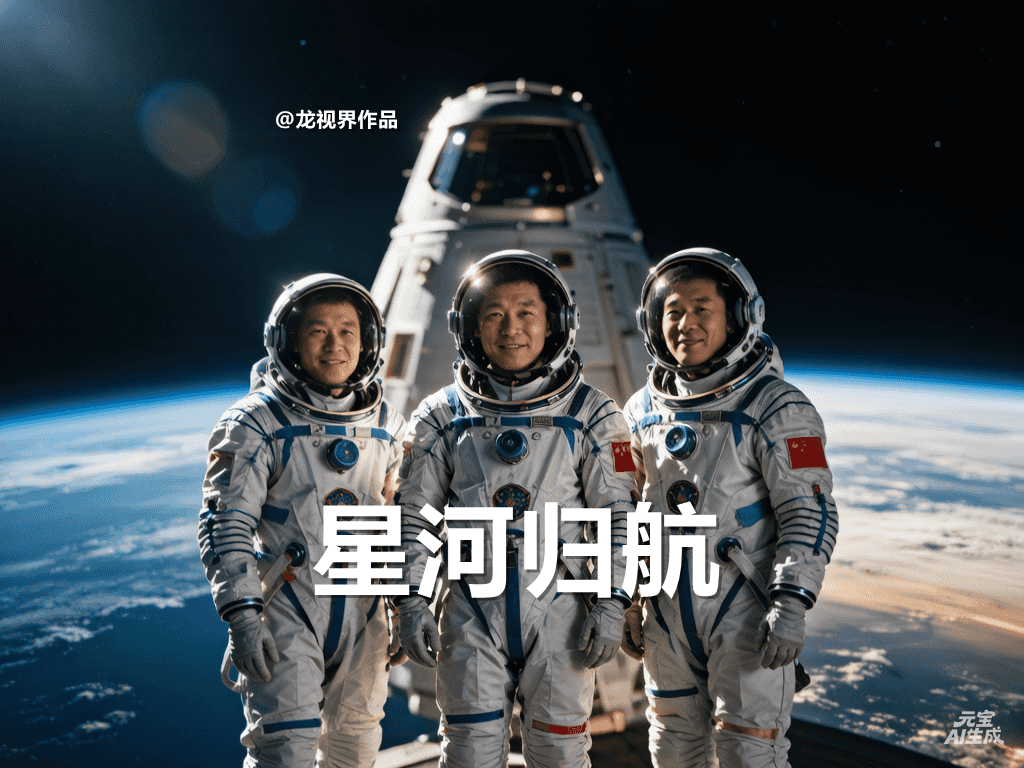
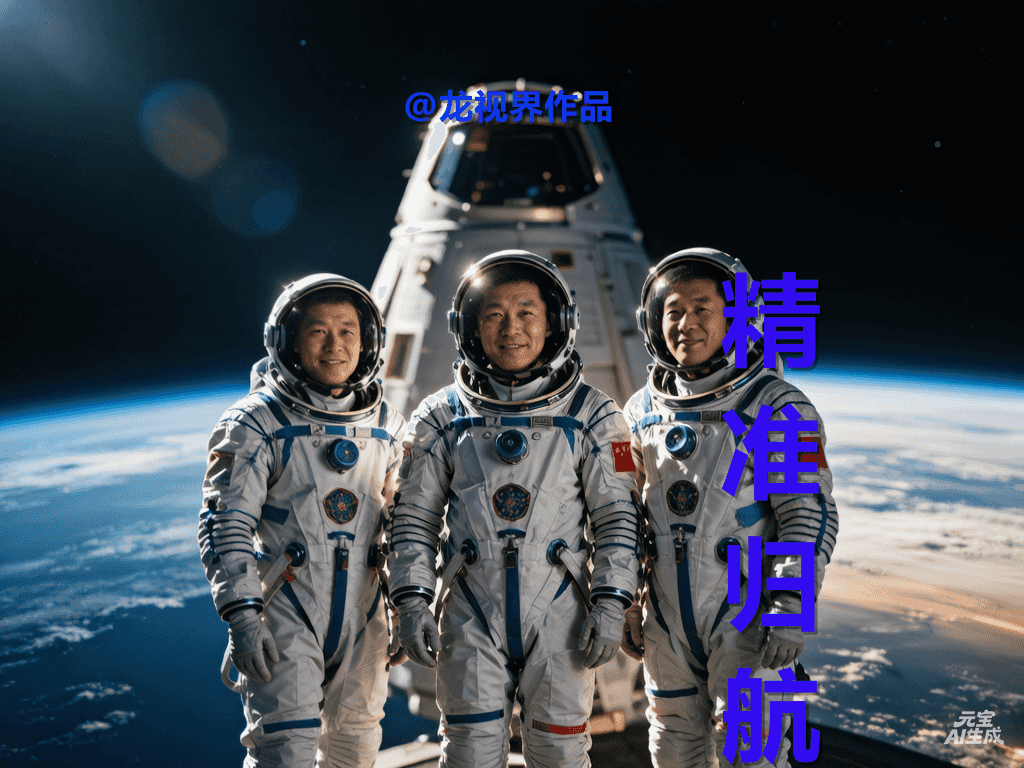
12

diff --git a/playfour1.html b/playfour1.html
@@ -1,0 +1,374 @@
+<!DOCTYPE html>
+<html lang="zh-CN">
+<head>
+<!-- Google tag (gtag.js) -->
+<script async src="https://www.googletagmanager.com/gtag/js?id=G-NFV4TWZ8NW"></script>
+<script>
+  window.dataLayer = window.dataLayer || [];
+  function gtag(){dataLayer.push(arguments);}
+  gtag('js', new Date());
+
+  gtag('config', 'G-NFV4TWZ8NW');
+</script>  
+  <meta charset="UTF-8">
+  <meta name="viewport" content="width=device-width, initial-scale=1.0">
+  <title>交互式歌词播放器</title>
+  <style>
+    /* 视觉设计系统 */
+    :root {
+      --primary: #123bf0;
+      --secondary: #3f37c9;
+      --text: #2b2d42;
+      --bg: #34393f2d;
+    }
+        body {
+            background: url('img/20260531143843_10569_2.png') no-repeat center center fixed;
+            background-size: cover;
+            margin: 0;
+            padding: 0;
+            height: 100vh;
+        }
+        /* 透明播放器样式 */
+      .player {
+            background: transparent; / 完全透明 /
+            backdrop-filter: blur(10px); / 可选：毛玻璃效果 /
+            border-radius: 15px;
+            padding: 20px;
+            width: 320px;
+            margin: 50px auto;
+            box-shadow: 0 4px 15px rgba(0, 0, 0, 0.1);
+            border: 1px solid rgba(255, 255, 255, 0.2);
+        }
+        .progress-bar {
+            background: rgba(255, 255, 255, 0.3);
+            height: 4px;
+            border-radius: 2px;
+            margin: 15px 0;
+        }
+        .progress {
+            background: #1DB954; / Spotify绿 /
+            height: 100%;
+            width: 31%; / 0:51/3:27 ≈ 31% /
+            border-radius: 2px;
+        }
+        .controls {
+            display: flex;
+            justify-content: center;
+        }
+        .play-btn {
+            background: #1DB954;
+            width: 56px;
+            height: 56px;
+            border-radius: 50%;
+            display: flex;
+            align-items: center;
+            justify-content: center;
+            cursor: pointer;
+        }
+        .time {
+            color: white;
+            font-family: Arial;
+            font-size: 12px;
+            display: flex;
+            justify-content: space-between;
+        }
+    .lyrics-viewport {
+      height: calc(100vh - 180px);
+      overflow-y: auto;
+      scroll-behavior: smooth;
+      padding-bottom: 180px;
+    }
+    .lyric-line {
+      padding: 16px 0;
+      text-align: center;
+      font-size: 18px;
+      color: var(--text);
+      opacity: 0.6;
+      transition: all 0.3s ease;
+      color: white;
+      text-shadow: 1px 1px 2px rgba(0, 0, 0, 0.5); / 可选：添加阴影增强可读性 /
+    }
+    .lyric-line.active {
+      color: var(--primary);
+      opacity: 1;
+      font-weight: 600;
+      transform: scale(1.08);
+    }
+    .control-panel {
+      position: fixed;
+      bottom: 20px;
+      left: 50%;
+      transform: translateX(-50%);
+      width: min(90%, 480px);
+      background: rgba(50, 50, 50, 0.3);
+      border-radius: 12px;
+      padding: 15px;
+      box-shadow: 0 -2px 15px rgba(0,0,0,0.1);
+    }
+    /* 新增按钮样式 */
+#backBtn {
+  position: absolute;
+  left: 15px;
+  top: 50%;
+  transform: translateY(-50%);
+  background: rgba(0,40,80,0.7);
+  border: none;
+  width: 36px;
+  height: 36px;
+  border-radius: 50%;
+  cursor: pointer;
+  transition: all 0.3s;
+}
+
+#backBtn:hover {
+  background: rgba(0,80,160,0.9);
+}
+
+.safe-drive-btn svg {
+  vertical-align: middle;
+}
+    .progress-container {
+      height: 4px;
+      background: #eee;
+      border-radius: 2px;
+      margin-bottom: 10px;
+      cursor: pointer;
+    }
+    .progress {
+      height: 100%;
+      background: linear-gradient(90deg, var(--primary), var(--secondary));
+      width: 0%;
+      border-radius: 2px;
+    }
+    .time-display {
+      display: flex;
+      justify-content: space-between;
+      font-size: 12px;
+      color: #666;
+      margin-bottom: 15px;
+    }
+    #playButton {
+      display: block;
+      margin: 0 auto;
+      width: 56px;
+      height: 56px;
+      background: var(--primary);
+      color: white;
+      border: none;
+      border-radius: 50%;
+      font-size: 20px;
+      cursor: pointer;
+      transition: all 0.2s;
+    }
+    #playButton:hover {
+      transform: scale(1.1);
+      box-shadow: 0 4px 15px rgba(28, 67, 241, 0.678);
+    }
+    // 访问计数器样式
+    #counter {
+      padding: 5px 10px;
+      border-radius: 3px;
+    }
+    #counter::before {
+      content: "👀";
+      font-size: 16px;
+    }     
+  </style>
+</head>
+<body>
+  <div class="player-container">    
+<audio id="audio" src="https://static.musicmuse.ai/audio/cmptejajy000i8jon71vamioz/20260531/cmptemp88006gmq1f9e3su0e7/2VBx6mzR5pdnKcEQj3YAti.mp3"></audio>
+    <div class="lyrics-viewport" id="lyricsViewport">  
+<div class="lyric-line" data-time="0.8">[前奏音乐]</div>
+<div class="lyric-line" data-time="12.24">二零二六年五月二十九</div>
+<div class="lyric-line" data-time="15.29">写进了星河的页</div>
+<div class="lyric-line" data-time="18.04">神舟二十一号的身影</div>
+<div class="lyric-line" data-time="21.44">把半年风雪都背</div>
+<div class="lyric-line" data-time="24.61">张陆望向舷窗外</div>
+<div class="lyric-line" data-time="27.70">武飞稳住每一次回</div>
+<div class="lyric-line" data-time="30.83">张洪章把守住时光</div>
+<div class="lyric-line" data-time="33.52">让每个日夜都不退</div>
+<div class="lyric-line" data-time="36.92">两百一十天</div>
+<div class="lyric-line" data-time="39.85">穿过寂静的黑</div>
+<div class="lyric-line" data-time="42.87">从天外回望</div>
+<div class="lyric-line" data-time="45.36">心跳更像春雷</div>
+<div class="lyric-line" data-time="48.95">同乘出征的誓言</div>
+<div class="lyric-line" data-time="52.37">此刻终于兑现</div>
+<div class="lyric-line" data-time="55.90">换船归来的答案</div>
+<div class="lyric-line" data-time="58.28">落回祖国天边</div>
+<div class="lyric-line" data-time="61.44">换船归来，归来</div>
+<div class="lyric-line" data-time="65.32">把荣光带回人间</div>
+<div class="lyric-line" data-time="67.66">换船归来，归来</div>
+<div class="lyric-line" data-time="71.31">把中国写上天边</div>
+<div class="lyric-line" data-time="73.93">同乘出征，换船返回</div>
+<div class="lyric-line" data-time="77.07">这一步多么不凡</div>
+<div class="lyric-line" data-time="80.26">换船归来，归来</div>
+<div class="lyric-line" data-time="83.78">热泪都为你们满</div>
+<div class="lyric-line" data-time="91.72">不是一句简单告别</div>
+<div class="lyric-line" data-time="94.62">是体系稳稳托举</div>
+<div class="lyric-line" data-time="97.53">每一次对接与切换</div>
+<div class="lyric-line" data-time="100.88">都闪着精准的呼吸</div>
+<div class="lyric-line" data-time="103.74">从发射到返航这一程</div>
+<div class="lyric-line" data-time="108.12">每道关口都过硬</div>
+<div class="lyric-line" data-time="110.30">把成熟和完备四个字</div>
+<div class="lyric-line" data-time="113.43">做成了真实的证明</div>
+<div class="lyric-line" data-time="116.40">看见那片蔚蓝时</div>
+<div class="lyric-line" data-time="119.36">谁都忍不住想念</div>
+<div class="lyric-line" data-time="122.82">可你们把漫长孤独</div>
+<div class="lyric-line" data-time="125.52">站成了新的标杆</div>
+<div class="lyric-line" data-time="128.72">超长周期的任务</div>
+<div class="lyric-line" data-time="131.86">在这一刻收官</div>
+<div class="lyric-line" data-time="135.27">把最难的路走通</div>
+<div class="lyric-line" data-time="137.42">把最亮的旗扬起岸</div>
+<div class="lyric-line" data-time="140.92">换船归来，归来</div>
+<div class="lyric-line" data-time="144.59">把荣光带回人间</div>
+<div class="lyric-line" data-time="147.17">换船归来，归来</div>
+<div class="lyric-line" data-time="150.86">把中国写上天边</div>
+<div class="lyric-line" data-time="153.41">同乘出征，换船返回</div>
+<div class="lyric-line" data-time="156.58">这一步多么不凡</div>
+<div class="lyric-line" data-time="159.69">换船归来，归来</div>
+<div class="lyric-line" data-time="163.31">热泪都为你们满</div>
+<div class="lyric-line" data-time="166.72">我看见你们穿过静默</div>
+<div class="lyric-line" data-time="168.09">把答案带回家</div>
+<div class="lyric-line" data-time="171.83">我听见每一颗心脏</div>
+<div class="lyric-line" data-time="174.32">跟着你们回答</div>
+<div class="lyric-line" data-time="177.30">从此以后再抬头看</div>
+<div class="lyric-line" data-time="180.42">不只是远方</div>
+<div class="lyric-line" data-time="183.56">还有我们亲手抵达的</div>
+<div class="lyric-line" data-time="186.06">更辽阔的地方</div>
+<div class="lyric-line" data-time="189.25">换船归来，归来</div>
+<div class="lyric-line" data-time="192.84">把荣光带回人间</div>
+<div class="lyric-line" data-time="195.59">换船归来，归来</div>
+<div class="lyric-line" data-time="199.16">把中国写上天边</div>
+<div class="lyric-line" data-time="201.75">同乘出征，换船返回</div>
+<div class="lyric-line" data-time="204.81">这一步多么不凡</div>
+<div class="lyric-line" data-time="208.14">换船归来，归来</div>
+<div class="lyric-line" data-time="211.60">热泪都为你们满</div>
+<div class="lyric-line" data-time="214.54">张陆，武飞，张洪章</div>
+<div class="lyric-line" data-time="217.66">名字刻进这一晚</div>
+<div class="lyric-line" data-time="220.56">星河作证，祖国作证</div>
+<div class="lyric-line" data-time="224.19">你们平安回家乡</div>
+      </div>      
+    </div>
+    <div class="control-panel"><div id="counter">0</div>
+  <button id="backBtn" class="safe-drive-btn">
+    <svg width="20" height="20" viewBox="0 0 24 24" fill="white">
+      <path d="M20 11H7.83l5.59-5.59L12 4l-8 8 8 8 1.41-1.41L7.83 13H20v-2z"/>
+    </svg>
+  </button>
+      <div class="progress-container" id="progressBar">
+        <div class="progress" id="progress"></div>
+      </div>
+      <div class="time-display">
+        <span id="currentTime">0:00</span>
+        <span id="duration">0:00</span>
+      </div>
+      <button id="playButton">▶</button>
+    </div>
+  </div>
+  <script>
+    // 优化后的JavaScript代码
+    const audio = document.getElementById('audio');
+    const lyricsViewport = document.getElementById('lyricsViewport');
+    const lyricLines = document.querySelectorAll('.lyric-line');
+    const progress = document.getElementById('progress');
+    const progressBar = document.getElementById('progressBar');
+    const playButton = document.getElementById('playButton');
+    const currentTimeEl = document.getElementById('currentTime');
+    const durationEl = document.getElementById('duration');
+
+    // 格式化时间显示
+    const formatTime = (seconds) => {
+      const mins = Math.floor(seconds / 60);
+      const secs = Math.floor(seconds % 60);
+      return `${mins}:${secs.toString().padStart(2, '0')}`;
+    };
+
+    // 播放/暂停控制
+playButton.addEventListener('click', () => {
+  if (audio.paused && playButton.dataset.state !== 'stopped') {
+    audio.play();
+    playButton.textContent = '❚❚';
+  } else if (playButton.dataset.state === 'stopped') {
+    audio.currentTime = 0; // 重置进度
+    audio.play();
+    playButton.textContent = '❚❚';
+    playButton.dataset.state = 'playing';
+  } else {
+    audio.pause();
+    playButton.textContent = '▶';
+  }
+});
+
+    // 进度条点击跳转
+    progressBar.addEventListener('click', (e) => {
+      const rect = progressBar.getBoundingClientRect();
+      const percent = (e.clientX - rect.left) / rect.width;
+      audio.currentTime = percent * audio.duration;
+    });
+
+    // 歌词同步核心逻辑
+    const syncLyrics = () => {
+      const currentTime = audio.currentTime;
+      let activeLineIndex = -1;
+
+      lyricLines.forEach((line, index) => {
+        const lineTime = parseFloat(line.dataset.time);
+        if (currentTime >= lineTime) {
+          activeLineIndex = index;
+        }
+        line.classList.remove('active');
+      });
+
+      if (activeLineIndex >= 0) {
+        const activeLine = lyricLines[activeLineIndex];
+        activeLine.classList.add('active');
+        
+        // 自动滚动到当前歌词
+        const viewportHeight = lyricsViewport.clientHeight;
+        const lineTop = activeLine.offsetTop;
+        const lineHeight = activeLine.clientHeight;
+        lyricsViewport.scrollTo({
+          top: lineTop - (viewportHeight / 2) + (lineHeight / 2),
+          behavior: 'smooth'
+        });
+      }
+    };
+
+    // 音频时间更新事件
+    audio.addEventListener('timeupdate', () => {
+      // 更新进度条
+      const progressPercent = (audio.currentTime / audio.duration) * 100;
+      progress.style.width = `${progressPercent}%`;
+      
+      // 更新时间显示
+      currentTimeEl.textContent = formatTime(audio.currentTime);
+      
+      // 同步歌词
+      syncLyrics();
+    });
+
+    // 加载元数据后更新总时长
+    audio.addEventListener('loadedmetadata', () => {
+      durationEl.textContent = formatTime(audio.duration);
+    });
+    audio.addEventListener('ended', () => {
+      playButton.textContent = '⏹';
+      playButton.dataset.state = 'stopped'; // 标记状态
+    });
+    // 错误处理
+    audio.addEventListener('error', () => {
+      console.error("音频加载错误");
+      playButton.disabled = true;
+    });
+    document.getElementById('backBtn').addEventListener('click', function() {
+      window.location.href = 'top1.html';
+    });
+     // 计算部分
+    const counter = document.getElementById('counter');
+    const count = parseInt(localStorage.getItem('pageCount')) || 0;
+    localStorage.setItem('pageCount', count + 1);
+    counter.textContent = count + 1;
+  </script>
+</body>
+</html>

diff --git a/top1.html b/top1.html
@@ -176,7 +176,8 @@ text-shadow: 0 0 8px rgba(255,255,255,0.3);
         <div class="music-pop">
             <h3>流行音乐</h3>
             <ul class="song-list">
-                <li class="song-item"><a href="play-gc009.html?song=星河倒挂=星河倒挂&artist=Muse">星河倒挂</a></li> 
+                <li class="song-item"><a href="play-gc011.html?song=精准归航=精准归航&artist=Muse">精准归航</a></li> 
+                <li class="song-item"><a href="play-gc009.html?song=星河倒挂=星河倒挂&artist=Muse">星河倒挂</a></li>
                 <li class="song-item"><a href="play418.html?song=我们的星球&title=我们的星球&artist=Muse">我们的星球</a></li>
                 <li class="song-item"><a href="play-gc010.html?song=值得被看见=值得被看见&artist=Muse">值得被看见</a></li>
                 <li class="song-item"><a href="play-gc005.html?song=贵定家门口=贵定家门口&artist=Muse">贵定家门口</a></li>                

diff --git a/play4010.html b/play4010.html
@@ -237,7 +237,7 @@
 <body>
     <div class="player">
 	<div class="hero-banner">
-        <img src="/img/20260531143843_10569_2.png" alt="Banner">
+        <img src="/img/20260531143843_10569_1.png" alt="Banner">
     </div>
 
         <div class="song-info" id="song-title">未加载音乐</div>
